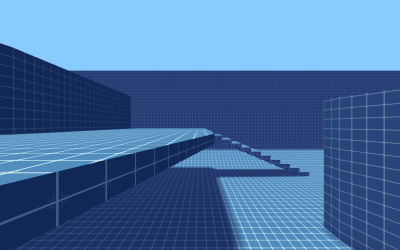
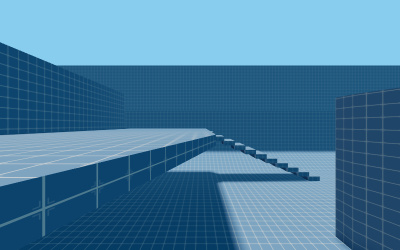
Examples: Improved games_fps.

diff --git a/examples/games_fps.html b/examples/games_fps.html
@@ -7,7 +7,11 @@
 		<link type="text/css" rel="stylesheet" href="main.css">
 	</head>
 	<body>
-		<div id="info">Octree threejs demo - basic collisions with static triangle mesh<br />WASD to move, space to jump, use mouse to throw balls and move the camera.</div>
+		<div id="info">
+			Octree threejs demo - basic collisions with static triangle mesh<br />
+			MOUSE to look around and to throw balls<br/>
+			WASD to move and SPACE to jump
+		</div>
 		<div id="container"></div>
 
 		<!-- Import maps polyfill -->
@@ -31,29 +35,26 @@
 			import { GLTFLoader } from './jsm/loaders/GLTFLoader.js';
 
 			import { Octree } from './jsm/math/Octree.js';
+			import { OctreeHelper } from './jsm/helpers/OctreeHelper.js';
+
 			import { Capsule } from './jsm/math/Capsule.js';
 
+			import { GUI } from './jsm/libs/lil-gui.module.min.js';
 
 			const clock = new THREE.Clock();
 
 			const scene = new THREE.Scene();
-			scene.background = new THREE.Color( 0x88ccff );
+			scene.background = new THREE.Color( 0x88ccee );
+			scene.fog = new THREE.Fog( 0x88ccee, 0, 50 );
 
-			const camera = new THREE.PerspectiveCamera( 75, window.innerWidth / window.innerHeight, 0.1, 1000 );
+			const camera = new THREE.PerspectiveCamera( 70, window.innerWidth / window.innerHeight, 0.1, 1000 );
 			camera.rotation.order = 'YXZ';
 
-			const ambientlight = new THREE.AmbientLight( 0x6688cc );
-			scene.add( ambientlight );
-
-			const fillLight1 = new THREE.DirectionalLight( 0xff9999, 0.5 );
-			fillLight1.position.set( - 1, 1, 2 );
+			const fillLight1 = new THREE.HemisphereLight( 0x4488bb, 0x002244, 0.5 );
+			fillLight1.position.set( 2, 1, 1 );
 			scene.add( fillLight1 );
 
-			const fillLight2 = new THREE.DirectionalLight( 0x8888ff, 0.2 );
-			fillLight2.position.set( 0, - 1, 0 );
-			scene.add( fillLight2 );
-
-			const directionalLight = new THREE.DirectionalLight( 0xffffaa, 1.2 );
+			const directionalLight = new THREE.DirectionalLight( 0xffffff, 0.8 );
 			directionalLight.position.set( - 5, 25, - 1 );
 			directionalLight.castShadow = true;
 			directionalLight.shadow.camera.near = 0.01;
@@ -68,20 +69,20 @@
 			directionalLight.shadow.bias = - 0.00006;
 			scene.add( directionalLight );
 
+			const container = document.getElementById( 'container' );
+
 			const renderer = new THREE.WebGLRenderer( { antialias: true } );
 			renderer.setPixelRatio( window.devicePixelRatio );
 			renderer.setSize( window.innerWidth, window.innerHeight );
 			renderer.shadowMap.enabled = true;
 			renderer.shadowMap.type = THREE.VSMShadowMap;
-
-			const container = document.getElementById( 'container' );
-
+			renderer.outputEncoding = THREE.sRGBEncoding;
+			renderer.toneMapping = THREE.ACESFilmicToneMapping;
 			container.appendChild( renderer.domElement );
 
 			const stats = new Stats();
 			stats.domElement.style.position = 'absolute';
 			stats.domElement.style.top = '0px';
-
 			container.appendChild( stats.domElement );
 
 			const GRAVITY = 30;
@@ -91,8 +92,8 @@
 
 			const STEPS_PER_FRAME = 5;
 
-			const sphereGeometry = new THREE.SphereGeometry( SPHERE_RADIUS, 32, 32 );
-			const sphereMaterial = new THREE.MeshStandardMaterial( { color: 0x888855, roughness: 0.8, metalness: 0.5 } );
+			const sphereGeometry = new THREE.IcosahedronGeometry( SPHERE_RADIUS, 5 );
+			const sphereMaterial = new THREE.MeshLambertMaterial( { color: 0xbbbb44 } );
 
 			const spheres = [];
 			let sphereIdx = 0;
@@ -105,7 +106,11 @@
 
 				scene.add( sphere );
 
-				spheres.push( { mesh: sphere, collider: new THREE.Sphere( new THREE.Vector3( 0, - 100, 0 ), SPHERE_RADIUS ), velocity: new THREE.Vector3() } );
+				spheres.push( {
+					mesh: sphere,
+					collider: new THREE.Sphere( new THREE.Vector3( 0, - 100, 0 ), SPHERE_RADIUS ),
+					velocity: new THREE.Vector3()
+				} );
 
 			}
 
@@ -137,7 +142,7 @@
 
 			} );
 
-			document.addEventListener( 'mousedown', () => {
+			container.addEventListener( 'mousedown', () => {
 
 				document.body.requestPointerLock();
 
@@ -147,7 +152,7 @@
 
 			document.addEventListener( 'mouseup', () => {
 
-				throwBall();
+				if ( document.pointerLockElement !== null ) throwBall();
 
 			} );
 
@@ -422,13 +427,25 @@
 
 						if ( child.material.map ) {
 
-							child.material.map.anisotropy = 8;
+							child.material.map.anisotropy = 4;
 
 						}
 
 					}
 
 				} );
+
+				const helper = new OctreeHelper( worldOctree );
+				helper.visible = false;
+				scene.add( helper );
+
+				const gui = new GUI( { width: 200 } );
+				gui.add( { debug: false }, 'debug' )
+					.onChange( function ( value ) {
+
+						helper.visible = value;
+
+					} );
 
 				animate();
 
